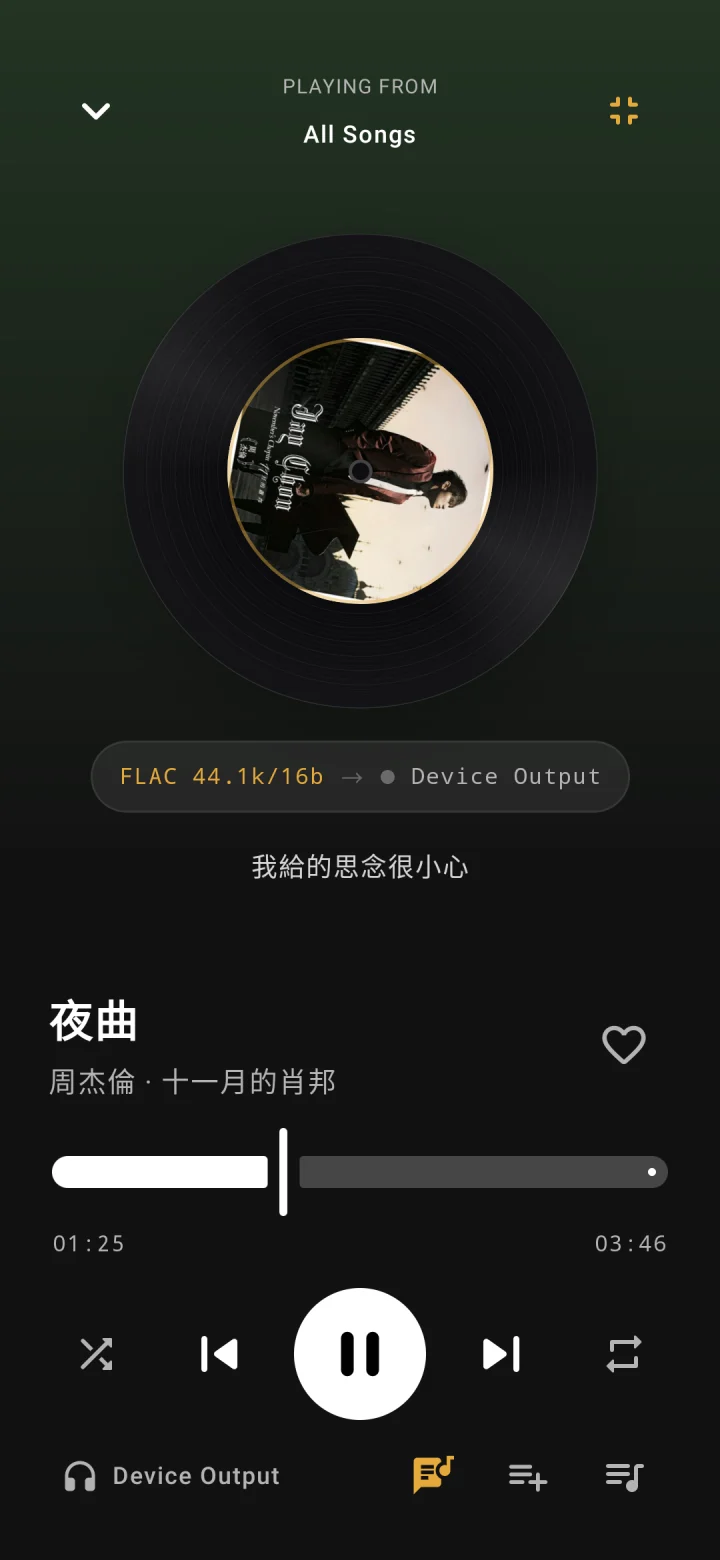
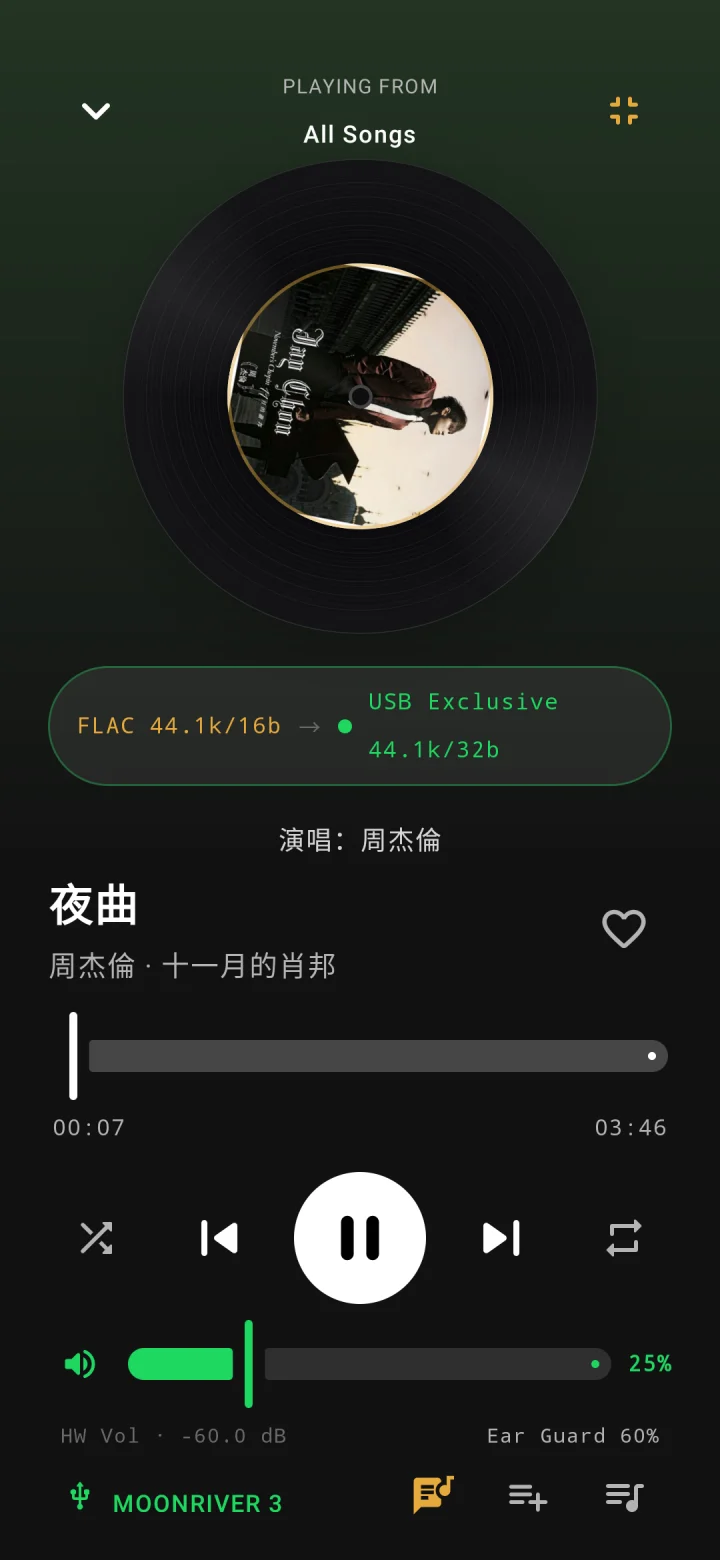
docs(web): add live MOONRIVER 3 USB DAC signal-path & telemetry screenshots (zh/en)

diff --git a/server/web/app.js b/server/web/app.js
@@ -23,12 +23,13 @@
       "showcase.eyebrow": "SPOTIFY DARK × VINYL AESTHETICS",
       "showcase.title": "像黑胶一样沉浸，像仪表一样精准",
       "showcase.desc":
-        "点击下方标签浏览全部 6 个核心实机界面。切换右上角「中文 / EN」按钮，手机画面也将实时同步为对应语言实拍截图。",
+        "点击下方标签浏览全部 7 个核心实机界面（含 MOONRIVER 3 实机 USB 独占链路与硬件仪表）。切换右上角「中文 / EN」，手机画面同步热切换对应语言实拍。",
       "tabs.now_playing": "黑胶播放页",
+      "tabs.audio_output": "音频输出与链路",
+      "tabs.usb_dac": "USB DAC 仪表",
       "tabs.lyrics": "流体光晕歌词",
       "tabs.library": "无损音乐库",
       "tabs.global_search": "跨源全局搜索",
-      "tabs.usb_dac": "USB DAC 仪表",
       "tabs.settings": "设置与双语",
       "features.eyebrow": "AUDIOPHILE ARCHITECTURE",
       "features.title": "从 C++ 底层驱动到指尖交互，全程无损",
@@ -110,12 +111,13 @@
       "showcase.eyebrow": "SPOTIFY DARK × VINYL AESTHETICS",
       "showcase.title": "Immersive like Vinyl. Precise like a Lab.",
       "showcase.desc":
-        "Explore all 6 real-device screens below. Toggle the Chinese / EN switch in the top bar and watch every phone screenshot hot-swap to the matching localized UI.",
+        "Explore all 7 real-device screens—including live MOONRIVER 3 USB Exclusive signal path & telemetry. Toggle Chinese / EN in the top bar to hot-swap every phone mockup.",
       "tabs.now_playing": "Now Playing",
+      "tabs.audio_output": "Signal Path",
+      "tabs.usb_dac": "USB DAC",
       "tabs.lyrics": "Aurora Lyrics",
       "tabs.library": "Music Library",
       "tabs.global_search": "Global Search",
-      "tabs.usb_dac": "USB DAC",
       "tabs.settings": "Settings & i18n",
       "features.eyebrow": "AUDIOPHILE ARCHITECTURE",
       "features.title": "Bit-Perfect from C++ Driver to Fingertip",
@@ -182,29 +184,73 @@
   const SCREENS = {
     now_playing: {
       zh: {
-        tag: "01 / 06 · NOW PLAYING",
-        title: "黑胶全屏播放页 & 纯享黑胶",
-        body: "纯 Canvas 60fps 绘制旋转黑胶与静止 45° 高光，自动提取专辑主色渲染暗调氛围渐变；实时展示「源格式 → 实际协商输出」信号胶囊与单行歌词，轻触唱片进入零干扰 Zen Vinyl 纯享态。",
+        tag: "01 / 07 · NOW PLAYING",
+        title: "黑胶全屏播放页 & USB 硬件音量",
+        body: "纯 Canvas 60fps 绘制旋转黑胶与静止 45° 高光，自动提取专辑主色渲染暗调氛围渐变；实时展示「FLAC → ● USB 独占 44.1k/32b」信号胶囊、常驻 UAC 硬件衰减音量条（-42.4 dB）与 60% 护耳上限。",
         bullets: [
-          "FLAC / WAV 原生采样率与位深实时透明展示",
-          "内置独立黑胶锁屏界面与 Spotify 风格 5 键通知栏",
-          "同采样率曲目真·无缝播放（Gapless），5ms 防爆音淡变",
+          "FLAC / WAV 原生采样率与实际 USB 协商位深实时透明展示",
+          "底部直接控制 DAC 硬件音量并标注 60% 护耳硬上限，保持 PCM 位精确直通",
+          "轻触唱片进入 Zen Vinyl 纯享黑胶，支持真·无缝播放与 5ms 防爆音淡变",
         ],
       },
       en: {
-        tag: "01 / 06 · NOW PLAYING",
-        title: "Spinning Vinyl & Zen Vinyl Mode",
-        body: "Pure Canvas 60fps vinyl disc with fixed 45° specular sheen and album-derived ambient gradients. Shows the live Source → Negotiated Output signal badge and single-line lyrics; tap the disc for distraction-free Zen Vinyl.",
+        tag: "01 / 07 · NOW PLAYING",
+        title: "Spinning Vinyl & Hardware Volume Bar",
+        body: "Pure Canvas 60fps vinyl disc with fixed 45° specular sheen and album-derived ambient glow. Shows the live FLAC → USB Exclusive signal badge, embedded UAC hardware attenuator bar (-42.4 dB), and 60% Ear Guard ceiling.",
         bullets: [
-          "Transparent source format to negotiated DAC output signal badge",
-          "Dedicated Vinyl Lockscreen & Spotify-style 5-button notification",
-          "True gapless playback & 5ms click-free fade transitions",
+          "Transparent source format to negotiated USB DAC output badge",
+          "Direct UAC hardware volume slider with 60% Ear Guard ceiling indicator",
+          "One-tap Zen Vinyl mode, true gapless playback & 5ms click-free fades",
+        ],
+      },
+    },
+    audio_output: {
+      zh: {
+        tag: "02 / 07 · SIGNAL PATH",
+        title: "音频输出与完整信号链路面板",
+        body: "点击播放页信号胶囊或底部设备名即可拉起实时链路诊断抽屉：清晰确认「Bit-Perfect USB 独占已锁定（绕过 Android 混音）」，逐层透明呈现音频源、UAC2 输出协商、实测晶振反馈频率与缓冲水位，并支持一键在 USB DAC 与本机输出之间无缝切换。",
+        bullets: [
+          "实时显示音频源（FLAC 44.1kHz / 16bit）→ 输出协商（UAC2 44100Hz / 32bit 4B）",
+          "异步时钟反馈实测锁定 44099.6 Hz · 缓冲 176 ms · 零欠载",
+          "一键在已接入的 MOONRIVER 3 独占通道与本机扬声器/蓝牙间无爆音切换",
+        ],
+      },
+      en: {
+        tag: "02 / 07 · SIGNAL PATH",
+        title: "Audio Output & Bit-Perfect Signal Path",
+        body: "Tap the signal pill or output name on Now Playing to inspect the live end-to-end audio chain: confirms Bit-Perfect USB Exclusive lock (Android mixer bypassed) with source spec, UAC2 negotiated format, measured DAC clock feedback, and one-tap output switching.",
+        bullets: [
+          "End-to-end telemetry: Source FLAC → UAC2 44100Hz / 32bit (4B) negotiation",
+          "Live async clock lock at 44099.6 Hz with 172–176 ms ring buffer & 0 underruns",
+          "Instant click-free switching between MOONRIVER 3 exclusive mode & device audio",
+        ],
+      },
+    },
+    usb_dac: {
+      zh: {
+        tag: "03 / 07 · USB DAC TELEMETRY",
+        title: "USB DAC 独占仪表与实测晶振监控",
+        body: "接入小尾巴后实时呈现「● USB 独占输出运行中」状态卡片与 2×2 工程仪表：协商采样率（44100 Hz）、位深容器（32b / 4B）、异步 Feedback 实测频率（44099.6 Hz）与缓冲/欠载计数（172ms · 0/224），下方完整列出 VID/PID 与 440Hz/1kHz 工程测试音。",
+        bullets: [
+          "实拍水月雨 MOONRIVER 3（VID 0x35D8 / PID 0x43DA）UAC2 高速直通运行状态",
+          "16.16 定点异步 Feedback 闭环锁频，长时间息屏播放稳定零欠载",
+          "支持一键断开独占或拔出自动平滑回退至本机扬声器/耳机",
+        ],
+      },
+      en: {
+        tag: "03 / 07 · USB DAC TELEMETRY",
+        title: "USB DAC Dashboard & Live Crystal Telemetry",
+        body: "Real-time dashboard showing USB Exclusive Streaming Active on Moondrop MOONRIVER 3 with a 2×2 engineering telemetry grid: negotiated sample rate (44100 Hz), bit depth/slot (32b / 4B), measured async feedback (44099.6 Hz), and buffer/underruns (172ms · 0/224).",
+        bullets: [
+          "Live capture on Moondrop MOONRIVER 3 (VID 0x35D8 / PID 0x43DA, UAC2 High-Speed)",
+          "Closed-loop 16.16 async feedback keeps crystal lock within < 10 ppm, 0 underruns",
+          "One-tap Disconnect or automatic fallback to device speaker / Bluetooth on unplug",
         ],
       },
     },
     lyrics: {
       zh: {
-        tag: "02 / 06 · AURORA LYRICS",
+        tag: "04 / 07 · AURORA LYRICS",
         title: "流体多色光晕 & 60fps 流光扫色歌词",
         body: "兼容 Android 10+ 的边到边流体多色光晕背景，逐句 60fps 流光扫色高亮与距离景深羽化；支持本地 LRC、内嵌标签、Subsonic 与 LRCLIB 在线五级瀑布自动匹配与实时偏移微调。",
         bullets: [
@@ -214,7 +260,7 @@
         ],
       },
       en: {
-        tag: "02 / 06 · AURORA LYRICS",
+        tag: "04 / 07 · AURORA LYRICS",
         title: "Fluid Aurora & 60fps Progressive Sweep Lyrics",
         body: "Edge-to-edge multi-color fluid aurora backdrop smooth on Android 10+, paired with 60fps Progressive Sweep lyric highlight, depth-of-field feathering, and a 5-tier lyrics engine with LRCLIB online matching.",
         bullets: [
@@ -226,7 +272,7 @@
     },
     library: {
       zh: {
-        tag: "03 / 06 · MUSIC LIBRARY",
+        tag: "05 / 07 · MUSIC LIBRARY",
         title: "毫秒级无损音乐库 & 多源融合",
         body: "自研二进制无损头解析器秒扫 FLAC / WAV / MP3 / M4A / OGG / OPUS，支持专辑封面网格、艺人、文件夹、自定义歌单与 Subsonic 远程曲库一键切换，首页保留「继续上次播放」断点卡片。",
         bullets: [
@@ -236,7 +282,7 @@
         ],
       },
       en: {
-        tag: "03 / 06 · MUSIC LIBRARY",
+        tag: "05 / 07 · MUSIC LIBRARY",
         title: "Instant Lossless Library & Multi-Source Hub",
         body: "Custom binary header parser scans FLAC, WAV, MP3, M4A, OGG & OPUS in milliseconds. Switch effortlessly between local albums, artists, folders, playlists, and self-hosted Subsonic servers.",
         bullets: [
@@ -248,7 +294,7 @@
     },
     global_search: {
       zh: {
-        tag: "04 / 06 · GLOBAL SEARCH",
+        tag: "06 / 07 · GLOBAL SEARCH",
         title: "全屏跨源全局搜索 & 歌词搜歌",
         body: "一框聚合检索本地歌曲、专辑、艺人、自建歌单、Subsonic 远程曲库（search3）以及本地/缓存 .lrc 歌词片段，点击歌词命中行直达对应秒数起播。",
         bullets: [
@@ -258,7 +304,7 @@
         ],
       },
       en: {
-        tag: "04 / 06 · GLOBAL SEARCH",
+        tag: "06 / 07 · GLOBAL SEARCH",
         title: "Full-Screen Cross-Source & Lyrics Search",
         body: "Unified instant search spanning local songs, albums, artists, playlists, remote Subsonic servers (search3), and local/cached .lrc lyrics—jump directly to the matched timestamp.",
         bullets: [
@@ -268,31 +314,9 @@
         ],
       },
     },
-    usb_dac: {
-      zh: {
-        tag: "05 / 06 · USB DAC TELEMETRY",
-        title: "USB DAC 独占开关与实时工程仪表",
-        body: "一键开启 Bit-Perfect USB 独占输出，实时监控实际协商采样率、位深、异步反馈晶振频率（fbRate）、缓冲水位与欠载计数，内置可折叠 440Hz / 1kHz 纯音测试工具。",
-        bullets: [
-          "支持 UAC1 / UAC2 描述符解析与非标准 wIndex 自动探测",
-          "未接入 DAC 时自动无缝回退至本机扬声器 / 蓝牙 / 3.5mm",
-          "USB 事件线程 nice = -16 音频高优先级，息屏同样零爆音",
-        ],
-      },
-      en: {
-        tag: "05 / 06 · USB DAC TELEMETRY",
-        title: "USB DAC Exclusive Control & Live Telemetry",
-        body: "Toggle Bit-Perfect USB exclusive mode and monitor live negotiated sample rate, bit depth, async feedback clock rate (fbRate), ring buffer depth, and underruns—with built-in 440Hz/1kHz test tones.",
-        bullets: [
-          "Full UAC1/UAC2 descriptor parsing & automatic wIndex probing",
-          "Seamless fallback to phone speaker, 3.5mm, or Bluetooth when unplugged",
-          "nice = -16 audio-priority USB event loop for glitch-free screen-off audio",
-        ],
-      },
-    },
     settings: {
       zh: {
-        tag: "06 / 06 · SETTINGS & I18N",
+        tag: "07 / 07 · SETTINGS & I18N",
         title: "极简分组设置 & 零中断双语热切换",
         body: "覆盖 USB 策略、四重护耳上限、深色底色与强调色、沉浸模式、歌词样式、WiFi 传歌、Subsonic 与应用内安全更新。切换「跟随系统 / 简体中文 / English」1 帧生效，绝不打断 USB DAC 播放。",
         bullets: [
@@ -302,7 +326,7 @@
         ],
       },
       en: {
-        tag: "06 / 06 · SETTINGS & I18N",
+        tag: "07 / 07 · SETTINGS & I18N",
         title: "Minimalist Settings & Zero-Interruption i18n",
         body: "Fine-tune USB policy, 4-layer ear guard, dark canvas & accent themes, immersive mode, lyrics styling, WiFi transfer, Subsonic, and SHA-256 verified updates. Switch English / Simplified Chinese in 1 frame without interrupting USB audio.",
         bullets: [

diff --git a/server/web/index.html b/server/web/index.html
@@ -158,16 +158,17 @@
           <span class="eyebrow" data-i18n="showcase.eyebrow">SPOTIFY DARK × VINYL AESTHETICS</span>
           <h2 class="section-title" data-i18n="showcase.title">像黑胶一样沉浸，像仪表一样精准</h2>
           <p class="section-desc" data-i18n="showcase.desc">
-            点击下方标签浏览全部 6 个核心实机界面。切换右上角「中文 / EN」按钮，手机画面也将实时同步为对应语言实拍截图。
+            点击下方标签浏览全部 7 个核心实机界面（含 MOONRIVER 3 实机 USB 独占链路与硬件仪表）。切换右上角「中文 / EN」，手机画面同步热切换对应语言实拍。
           </p>
         </div>
 
         <div class="showcase-tabs" role="tablist" aria-label="App Screens">
           <button type="button" class="tab-pill active" role="tab" aria-selected="true" data-screen="now_playing" data-i18n="tabs.now_playing">黑胶播放页</button>
+          <button type="button" class="tab-pill" role="tab" aria-selected="false" data-screen="audio_output" data-i18n="tabs.audio_output">音频输出与链路</button>
+          <button type="button" class="tab-pill" role="tab" aria-selected="false" data-screen="usb_dac" data-i18n="tabs.usb_dac">USB DAC 仪表</button>
           <button type="button" class="tab-pill" role="tab" aria-selected="false" data-screen="lyrics" data-i18n="tabs.lyrics">流体光晕歌词</button>
           <button type="button" class="tab-pill" role="tab" aria-selected="false" data-screen="library" data-i18n="tabs.library">无损音乐库</button>
           <button type="button" class="tab-pill" role="tab" aria-selected="false" data-screen="global_search" data-i18n="tabs.global_search">跨源全局搜索</button>
-          <button type="button" class="tab-pill" role="tab" aria-selected="false" data-screen="usb_dac" data-i18n="tabs.usb_dac">USB DAC 仪表</button>
           <button type="button" class="tab-pill" role="tab" aria-selected="false" data-screen="settings" data-i18n="tabs.settings">设置与双语</button>
         </div>
 
@@ -189,19 +190,20 @@
           </div>
 
           <div class="showcase-info">
-            <span class="screen-tag" id="screenTag">01 / 06 · NOW PLAYING</span>
-            <h3 class="screen-heading" id="screenTitle">黑胶全屏播放页 &amp; 纯享模式</h3>
+            <span class="screen-tag" id="screenTag">01 / 07 · NOW PLAYING</span>
+            <h3 class="screen-heading" id="screenTitle">黑胶全屏播放页 &amp; 硬件音量</h3>
             <p class="screen-body" id="screenBody">
-              纯 Canvas 60fps 绘制旋转黑胶与静止 45° 高光，自动提取专辑主色渲染深邃氛围渐变；实时展示「源格式 → 实际协商输出」双徽章胶囊与单行歌词，轻触唱片即刻进入零干扰 Zen Vinyl 纯享态。
+              纯 Canvas 60fps 绘制旋转黑胶与静止 45° 高光，自动提取专辑主色渲染深邃氛围渐变；实时展示「FLAC → USB 独占」信号胶囊、UAC 硬件衰减音量条与 60% 护耳上限。
             </p>
             <ul class="screen-bullets" id="screenBullets"></ul>
 
             <div class="showcase-thumbs" aria-label="Quick Screen Selector">
               <button type="button" class="thumb-dot active" data-screen="now_playing" aria-label="Now Playing"></button>
+              <button type="button" class="thumb-dot" data-screen="audio_output" aria-label="Audio Output & Signal Path"></button>
+              <button type="button" class="thumb-dot" data-screen="usb_dac" aria-label="USB DAC Telemetry"></button>
               <button type="button" class="thumb-dot" data-screen="lyrics" aria-label="Aurora Lyrics"></button>
               <button type="button" class="thumb-dot" data-screen="library" aria-label="Library"></button>
               <button type="button" class="thumb-dot" data-screen="global_search" aria-label="Global Search"></button>
-              <button type="button" class="thumb-dot" data-screen="usb_dac" aria-label="USB DAC"></button>
               <button type="button" class="thumb-dot" data-screen="settings" aria-label="Settings"></button>
             </div>
           </div>

diff --git a/server/web/styles.css b/server/web/styles.css
@@ -693,6 +693,9 @@ img {
   pointer-events: none;
 }
 
+.showcase-stage[data-theme="audio_output"] .showcase-glow {
+  background: radial-gradient(circle, #1ed760, transparent 70%);
+}
 .showcase-stage[data-theme="lyrics"] .showcase-glow {
   background: radial-gradient(circle, #6d7c36, transparent 70%);
 }

diff --git a/README_ZH.md b/README_ZH.md
@@ -23,21 +23,25 @@
 > 查看英文界面截图请访问 [README.md](README.md)。
 
 <p align="center">
-  <img src="docs/screenshots/zh/now_playing.png" width="15.5%" alt="黑胶全屏播放页" />
-  <img src="docs/screenshots/zh/lyrics.png" width="15.5%" alt="流体光晕沉浸歌词页" />
-  <img src="docs/screenshots/zh/library.png" width="15.5%" alt="本地无损音乐库" />
-  <img src="docs/screenshots/zh/global_search.png" width="15.5%" alt="全屏跨源全局搜索" />
-  <img src="docs/screenshots/zh/usb_dac.png" width="15.5%" alt="USB DAC 实时链路仪表" />
-  <img src="docs/screenshots/zh/settings.png" width="15.5%" alt="设置与双语热切换" />
+  <img src="docs/screenshots/zh/now_playing.png" width="23%" alt="黑胶全屏播放页与硬件音量" />
+  <img src="docs/screenshots/zh/audio_output.png" width="23%" alt="音频输出与 Bit-Perfect 信号链路" />
+  <img src="docs/screenshots/zh/usb_dac.png" width="23%" alt="USB DAC 实时链路仪表（MOONRIVER 3）" />
+  <img src="docs/screenshots/zh/lyrics.png" width="23%" alt="流体光晕沉浸歌词页" />
+</p>
+<p align="center">
+  <img src="docs/screenshots/zh/library.png" width="23%" alt="本地无损音乐库" />
+  <img src="docs/screenshots/zh/global_search.png" width="23%" alt="全屏跨源全局搜索" />
+  <img src="docs/screenshots/zh/settings.png" width="23%" alt="设置与双语热切换" />
 </p>
 
 | 页面 | 核心特性 |
 |---|---|
-| **黑胶全屏播放页** | 纯 Canvas 绘制旋转黑胶唱片与静止 45° 高光、封面主色暗调氛围渐变、实时 **源格式 → 实际协商输出** 双徽章胶囊、单行实时歌词预览与一键 **纯享黑胶** |
+| **黑胶播放页 & 硬件音量** | 纯 Canvas 旋转黑胶与封面动态氛围渐变、实时 **FLAC → USB 独占 44.1k/32b** 信号胶囊、内置 **UAC 硬件衰减音量条**（`-42.4 dB`）与 **60% 护耳上限** 标记、一键 **纯享黑胶** |
+| **音频输出与信号链路** | 明确标注 **Bit-Perfect USB 独占已锁定（绕过 Android 混音）**，逐层透明展示音频源、UAC2 协商输出（`44100Hz / 32bit 4B`）、实测晶振反馈（`44099.6 Hz`）与缓冲水位，支持一键在 **MOONRIVER 3** 与本机输出间无缝切换 |
+| **USB DAC 实时仪表** | 实拍 **MOONRIVER 3** 独占运行状态卡片与 2×2 工程仪表（协商采样率、位深容器、Feedback 实测频率、缓冲与 0 欠载计数）、VID/PID 设备列表及 440Hz/1kHz 测试音工具 |
 | **流体光晕沉浸歌词页** | 边到边 **流体多色氛围光晕** 背景、60fps **逐句流光扫色高亮**、五级歌词源自动匹配（本地 LRC / 内嵌 / Subsonic / **LRCLIB 在线**）、偏移微调与所见即所得样式面板 |
 | **本地无损音乐库** | 毫秒级无损头解析（FLAC/WAV/MP3/M4A/OGG/OPUS）、专辑/艺人/文件夹/歌单多维钻取、Subsonic 多服切换条与首页「继续上次播放」断点卡片 |
 | **全屏跨源全局搜索** | 聚合本地歌曲、专辑、艺人、歌单、Subsonic 远程曲库（`search3`）与 `.lrc` **歌词搜歌**，内置 **简繁互通归一化** 与快捷发现卡片 |
-| **USB 设备与诊断页** | USB Bit-Perfect 独占总开关、实时协商采样率、位深、异步 Feedback 晶振频率（`fbRate`）、缓冲水位与欠载计数，内置 440Hz/1kHz 工程测试音工具 |
 | **设置与双语热切换** | Spotify 风格极简深色分组设置，覆盖 USB 策略、四重护耳上限、WiFi 传歌、Subsonic、歌词样式、深色主题与 **零中断中英双语热切换** |
 
 ---

diff --git a/README.md b/README.md
@@ -23,21 +23,25 @@
 > Looking for the Simplified Chinese UI screenshots? See [README_ZH.md](README_ZH.md).
 
 <p align="center">
-  <img src="docs/screenshots/en/now_playing.png" width="15.5%" alt="Now Playing Vinyl" />
-  <img src="docs/screenshots/en/lyrics.png" width="15.5%" alt="Immersive Aurora Lyrics" />
-  <img src="docs/screenshots/en/library.png" width="15.5%" alt="Music Library" />
-  <img src="docs/screenshots/en/global_search.png" width="15.5%" alt="Global Search" />
-  <img src="docs/screenshots/en/usb_dac.png" width="15.5%" alt="USB DAC Dashboard" />
-  <img src="docs/screenshots/en/settings.png" width="15.5%" alt="Settings & Language" />
+  <img src="docs/screenshots/en/now_playing.png" width="23%" alt="Now Playing Vinyl & USB Hardware Volume" />
+  <img src="docs/screenshots/en/audio_output.png" width="23%" alt="Audio Output & Bit-Perfect Signal Path" />
+  <img src="docs/screenshots/en/usb_dac.png" width="23%" alt="USB DAC Live Telemetry (MOONRIVER 3)" />
+  <img src="docs/screenshots/en/lyrics.png" width="23%" alt="Immersive Aurora Lyrics" />
+</p>
+<p align="center">
+  <img src="docs/screenshots/en/library.png" width="23%" alt="Music Library" />
+  <img src="docs/screenshots/en/global_search.png" width="23%" alt="Global Search" />
+  <img src="docs/screenshots/en/settings.png" width="23%" alt="Settings & Bilingual UI" />
 </p>
 
 | View | Highlights |
 |---|---|
-| **Now Playing (Vinyl)** | Spinning canvas vinyl disc with fixed specular sheen, dynamic album-art ambient gradient, live **Source → Negotiated Output** signal badge, live single-line lyric preview, and one-tap **Zen Vinyl** mode |
+| **Now Playing (Vinyl & HW Volume)** | Spinning canvas vinyl disc, dynamic cover ambient glow, live **FLAC → USB Exclusive** signal badge, embedded **UAC Hardware Volume** bar (`-42.4 dB`) with 60% **Ear Guard** ceiling, and one-tap **Zen Vinyl** |
+| **Audio Output & Signal Path** | End-to-end Bit-Perfect lock confirmation (**Android mixer bypassed**), source spec, UAC2 negotiated format (`44100Hz / 32bit 4B`), measured DAC async clock (`44099.6 Hz`), buffer depth, and one-tap switching between **MOONRIVER 3** & device audio |
+| **USB DAC Telemetry** | Live **USB Exclusive Streaming Active** card with 2×2 engineering telemetry (`Sample Rate`, `Depth / Slot`, `Async Feedback`, `Buffer / Underrun`), VID/PID hardware listing, and built-in 440Hz/1kHz test tone diagnostics |
 | **Immersive Aurora Lyrics** | Edge-to-edge **Fluid Multi-Color Aurora** backdrop, 60fps **Progressive Sweep** lyric highlight, 5-tier multi-source lyrics engine (Local LRC / Embedded / Subsonic / **LRCLIB Online**), live offset & style customizer |
 | **Music Library** | Instant lossless header scanner (FLAC/WAV/MP3/M4A/OGG/OPUS), album/artist/folder/playlist views, Subsonic multi-server quick switcher, and resume-last-session card |
 | **Global Search** | Full-screen cross-source search across local tracks, albums, artists, playlists, Subsonic remote (`search3`), and `.lrc` **search-by-lyrics** with Simplified ↔ Traditional Chinese normalization & Quick Discovery |
-| **USB DAC Dashboard** | Bit-Perfect USB Exclusive switch, real-time negotiated sample rate, bit depth, async feedback clock rate (`fbRate`), buffer depth, underrun counter, and built-in 440Hz/1kHz test tone diagnostics |
 | **Settings & Bilingual UI** | Minimalist dark grouped preferences for USB policy, 4-layer ear protection, WiFi LAN transfer, Subsonic, lyrics style, dark canvas & accent themes, and **zero-interruption English / Simplified Chinese switching** |
 
 ---

diff --git a/docs/testing/reports/2026-11-27_v1.0.0_official_release_qa_report.md b/docs/testing/reports/2026-11-27_v1.0.0_official_release_qa_report.md
@@ -51,3 +51,12 @@ Signer certificate: `CN=Sonify, OU=AceInAndroid, O=Sonify, L=Shanghai, ST=Shangh
 ## 4. Release Decision
 
 **APPROVED FOR OFFICIAL `v1.0.0` GITHUB RELEASE.**
+
+---
+
+## 5. Addendum — Live USB DAC Screenshots (MOONRIVER 3)
+
+- **Device**: `192.168.31.233:5555` (wireless ADB, Release `v1.0.0`) + Moondrop MOONRIVER 3 (UAC2 High-Speed) plugged in.
+- **New/updated bilingual screenshots** (`docs/screenshots/{zh,en}/`): `now_playing.png` (FLAC 44.1k/16b → USB Exclusive 44.1k/32b + HW volume bar + 60% Ear Guard), `audio_output.png` (Audio Output & Signal Path sheet: UAC2 44100Hz/32bit 4B, DAC feedback 44099.6 Hz, 0 underruns), `usb_dac.png` (USB Exclusive Streaming Active telemetry, VID 0x35D8 / PID 0x43DA).
+- Language hot-switched ZH ↔ EN during live USB streaming with zero interruption; EN shots re-started playback in English so `PLAYING FROM` shows `All Songs`.
+- SystemUI Demo Mode used and exited; language reset to Follow System; `logcat` AndroidRuntime/FATAL: **0 crashes, 0 ANRs**.
